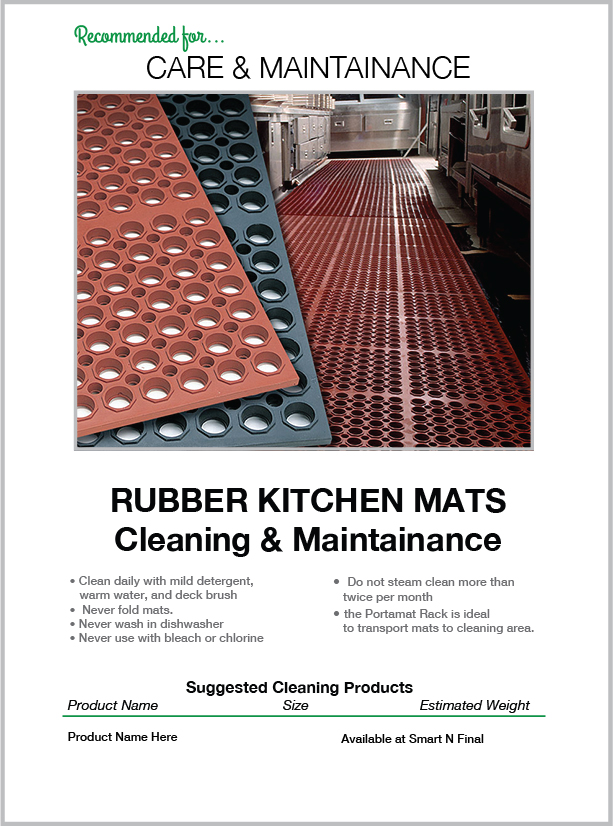
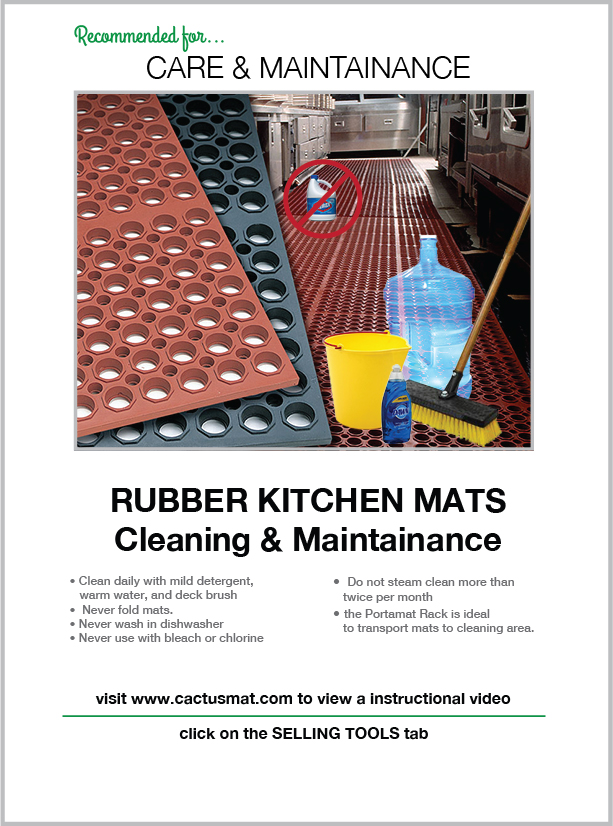
still more changes

Changed region(s): [[0.5269, 0.2421, 0.8679, 0.5448], [0.124, 0.8172, 0.8679, 0.908], [0.4649, 0.1816, 0.5889, 0.3027]]

diff --git a/rubber.html b/rubber.html
@@ -25,31 +25,58 @@
 			  	<div class="span4"></div>
 	  		</div>
 	  		<div class="row">
-	  			<a href="entrance.html"><h1 class="center-block floor_mat_guide_text">RUBBER MATS / CARE & MAINTAINANCE</h1></a>
+	  			<a href="entrance.html"><h1 class="center-block floor_mat_guide_text">KITCHEN MATS<br>CARE &amp; MAINTAINANCE</h1></a>
 			</div>
 
+
 <!-- BEST BEST BEST BEST BEST BEST BEST BEST BEST BEST BEST BEST BEST -->
-	  		<div class="row">
+			<div class="row">
+				<p id="selector_rubber_mats" class="rubber-mats">Clean daily with mild detergent,<br>
+					warm water, &amp; deck brush.<br>
+					Never fold mats, or wash in dishwasher.<br>
+					Never use bleach or chlorine. Do not steam clean more<br>
+					than twice per month.<br>
+					The Portamat Rack is ideal for<br>
+					transporting mats to cleaning areas</p>
+			</div>
+
+		<div class="row">
 				<ul class="best_container select_entrance">
-					<h1 class="good sub_title">BEST</h1>
-							<div>
-			<ul id="selector_rubber_mats">
-					<li>Clean daily with<br>mild detergent,<br>
-					warm water, &amp; deck brush.<br><br>
-					Never fold mats.<br>
-					Never wash in dishwasher.<br>
-					Never use bleach or chlorine.<br><br>
-					Do not steam clean more<br>
-					than twice per month.<br><br>
-					The Portamat Rack is ideal<br>
-					to transport mats<br>to cleaning areas</li>
+<!--					<h1 class="good sub_title">BEST</h1>		-->
+<div class="row">
+		  <div class="span4"></div>
+		  <div class="span4"><img class="center-block img-responsive" src="assets/art_photos/GBanner_Best_Wood_Strip.png" alt="Best Banner"/></div>
+		  <div class="span4"></div>					
+					<a href="assets/art_photos/GuidePics/Guide_Rubber.jpg" data-lightbox="Guide_Rubber.jpg" data-title="Touch &amp; Hold to COPY this image, then paste into an email &amp; send this image to your customer"><li id="needleRib" class="good">Kitchen Mat Care Instructions</li></a>
 				</ul>
-		</div>
+	  		</div>		
 				</ul>
 	  		</div>		
 		</div>
 	</div>
 	
+<!--
+<div class="row">
+	<div class="span4"></div>
+		<div class="span4"><img class="center-block img-responsive" src="assets/art_photos/GBanner_Best_Wood_Strip.png" alt="Best Banner"/></div>
+		  <div class="span4"></div>
+
+	  		<div class="row">
+				<ul class="best_container select_entrance">
+					<h1 class="good sub_title">BEST</h1>		
+				<div>
+					<p id="selector_rubber_mats" class="rubber-mats">Clean daily with mild detergent,<br>
+					warm water, &amp; deck brush.<br>
+					Never fold mats, or wash in dishwasher.<br>
+					Never use bleach or chlorine. Do not steam clean more<br>
+					than twice per month.<br>
+					The Portamat Rack is ideal for<br>
+					transporting mats to cleaning areas</p>
+				</div>
+	  		</div>		
+		</div>
+	</div>
+	-->
 	<!--Selector List Selector List Selector List Selector List Selector List-->
 
 	<div class="container">
@@ -102,7 +129,7 @@
 		<div class="span4"></div>
 		<div class="span4"><img class="center-block img-responsive" src="assets/art_photos/cactus.png" alt="Welcome Image"/>
 	</div>
-	
+
 	<div class="row">
 		<header class="co_name"><a href="index.html">CACTUS MAT</a></header>
 		<h2>Manufacturing Company</h2>

diff --git a/carpet.html b/carpet.html
@@ -13,43 +13,42 @@
 	</head>
 
 		<body>
-		<div class="container">
+	<div class="container">
 		<div class="row">
 			<header>CACTUS MAT</header>
 			<h2>Manufacturing Company</h2>
 		</div>
 
-			<div class="row">
-			  	<div class="span4"></div>
-				  	<div class="span4"><h1 class="center-block floor_mat_guide_text_selection">Floor Mat Selection Guide</h1>
-			  	<div class="span4"></div>
-	  		</div>
-	  	<div class="row">
+		<div class="row">
+			<div class="span4"></div>
+				<div class="span4"><h6 class="center-block floor_mat_guide_text_selection">Floor Mat Selection Guide</h6>
+			  		<div class="span4"></div>
+	  			</div>
+	  				<div class="row">
 	  			<h1 class="center-block floor_mat_guide_text">CARPET MATS / CARE & MAINTAINANCE</h1>
-			</div>
+					</div>
 			
-	  		</div>
+	  			</div>
 
 <!-- BEST BEST BEST BEST BEST BEST BEST BEST BEST BEST BEST BEST BEST -->
-		<!--<div>
-			<ul id="selector_carpet_mats" class="carpet-mats">
-				<li>Vacuum daily.<br>
-				Periodically deep clean<br>
-				with carpet extractor<br>
-				using water based detergent<br>
-				or shampoo, &amp; deck brush.<br><br>
+
+			<div class="row">
+				<p id="selector_carpet_mats" class="carpet-mats">Vacuum daily. Periodically deep clean<br>
+				with carpet extractor using water based detergent<br>
+				or shampoo, &amp; deck brush.<br>
 				Do not use solvent based cleaners<br>
-				Allow mats to dry completely<br>
-				before returning to service.<br><br>
-				Roll mat with pile facing<br>
-				outward to store and never<br>
-				stand rolled mats on end.</li>
-			</ul>
-		</div>-->
+				Always allow mats to dry completely before returning to service.<br>
+				Roll mat with pile facing outward to store and never<br>
+				stand rolled mats on end.</p>
+			</div>
+
 		<div class="row">
 				<ul class="best_container select_entrance">
-					<h1 class="good sub_title">BEST</h1>
-					
+<!--					<h1 class="good sub_title">BEST</h1>		-->
+<div class="row">
+		  <div class="span4"></div>
+		  <div class="span4"><img class="center-block img-responsive" src="assets/art_photos/GBanner_Best_Wood_Strip.png" alt="Best Banner"/></div>
+		  <div class="span4"></div>					
 					<a href="assets/art_photos/GuidePics/Guide_Carpet.jpg" data-lightbox="Guide_Carpet.jpg" data-title="Touch &amp; Hold to COPY this image, then paste into an email &amp; send this image to your customer"><li id="needleRib" class="good">Carpet Mat Care Instructions</li></a>
 				</ul>
 	  		</div>		

diff --git a/beverage.html b/beverage.html
@@ -38,7 +38,7 @@
 				<ul class="good_container select_entrance">
 <!--					<h1 class="good sub_title">GOOD</h1>		-->
 
-					<a href="assets/art_photos/GuidePics/Guide_Bubble_Eze_Entrance.jpg" data-lightbox="Guide_Bubble_Eze_Entrance.jpg" data-title="Touch &amp; Hold to COPY this image, then paste into an email &amp; send this image to your customer"><li id="bubbleEze" class="good">2502 Bubble-Eze</li></a>
+					<a href="assets/art_photos/GuidePics/Guide_Bubble_Eze_Beverage.jpg" data-lightbox="Guide_Bubble_Eze_Beverage.jpg" data-title="Touch &amp; Hold to COPY this image, then paste into an email &amp; send this image to your customer"><li id="bubbleEze" class="good">2502 Bubble-Eze</li></a>
 				</ul>
 	  		</div>
 <!-- BETTER BETTER BETTER BETTER BETTER BETTER BETTER BETTER BETTER-->
@@ -51,7 +51,7 @@
 				<ul class="better_container select_entrance">
 <!--					<h1 class="good sub_title">BETTER</h1>		-->
 
-					<a href="assets/art_photos/GuidePics/Guide_Ridge_Scraper_Entrance.jpg" data-lightbox="Guide_Ridge_Scraper_Entrance.jpg" data-title="Touch &amp; Hold to COPY this image, then paste into an email &amp; send this image to your customer"><li id="RidgeScraper" class="good">1625 Ridge Scraper / Logo</li></a>
+					<a href="assets/art_photos/GuidePics/Guide_Ridge_Scraper_Beverage.jpg" data-lightbox="Guide_Ridge_Scraper_Beverage.jpg" data-title="Touch &amp; Hold to COPY this image, then paste into an email &amp; send this image to your customer"><li id="RidgeScraper" class="good">1625 Ridge Scraper / Logo</li></a>
 				</ul>
 	  		</div>
 
@@ -65,7 +65,7 @@
 				<ul class="best_container select_entrance">
 <!--					<h1 class="good sub_title">BEST</h1>		-->
 
-					<a href="assets/art_photos/GuidePics/Guide_Fingertop_Cashier.jpg" data-lightbox="Guide_Fingertop_Cashier.jpg" data-title="Touch &amp; Hold to COPY this image, then paste into an email &amp; send this image to your customer"><li id="fingertop" class="good">35 Fingertop</li></a>
+					<a href="assets/art_photos/GuidePics/Guide_Fingertop_Beverage.jpg" data-lightbox="Guide_Fingertop_Beverage.jpg" data-title="Touch &amp; Hold to COPY this image, then paste into an email &amp; send this image to your customer"><li id="fingertop" class="good">35 Fingertop</li></a>
 				</ul>
 	  		</div>		
 		</div>

diff --git a/restrooms.html b/restrooms.html
@@ -54,7 +54,7 @@
 
 					<a href="assets/art_photos/GuidePics/Guide_Fingertop_Restroom.jpg" data-lightbox="Guide_Fingertop_Restroom.jpg" data-title="Touch &amp; Hold to COPY this image, then paste into an email &amp; send this image to your customer"><li id="fingertop" class="good">35 Fingertop</li></a>
 
-					<a href="assets/art_photos/GuidePics/Guide_Ridge_Scraper.jpg" data-lightbox="Guide_Ridge_Scraper.jpg" data-title="Touch &amp; Hold to COPY this image, then paste into an email &amp; send this image to your customer"><li id="ridgeScraper" class="good">1625 Ridge Scraper</li></a>
+					<a href="assets/art_photos/GuidePics/Guide_Ridge_Scraper_Restroom.jpg" data-lightbox="Guide_Ridge_Scraper_Restroom.jpg" data-title="Touch &amp; Hold to COPY this image, then paste into an email &amp; send this image to your customer"><li id="ridgeScraper" class="good">1625 Ridge Scraper</li></a>
 				</ul>
 	  		</div>
 
@@ -86,7 +86,7 @@
 -->
 		<div class="row">
 		  	<div class="span4"></div>
-		  	<div class="span4"><h1 class="center-block floor_mat_guide_text">Floor Mat Selection Guide</h1></div>
+		  	<div class="span4"><h2 class="center-block floor_mat_guide_text">Floor Mat Selection Guide</h2></div>
 		  	<div class="span4"></div>
   		</div>
   		  		<div class="row">
@@ -112,7 +112,7 @@
 		  	
   		</div>
   		<div class="row">
-		  	<a href="salad.html"><div class="menu_box">Salad, Beverage &amp; Ice Stations</div></a>
+		  	<a href="salad.html"><div class="menu_box">Salad Bar</div></a>
 		  	<a href="rubber.html"><div class="menu_box">Care of Rubber Mats</div></a>
   		</div>
   		<div class="row">

diff --git a/cookline.html b/cookline.html
@@ -41,9 +41,9 @@
 
 					<a href="assets/art_photos/GuidePics/Guide_Tuffdek_Red_Cookline.jpg" data-lightbox="Guide_Tuffdek_Red_Cookline.jpg" data-title="Touch &amp; Hold to COPY this image, then paste into an email &amp; send this image to your customer"><li id="tuffdekRed" class="good">3525 Tuffdek (mod grease)</li></a>
 
-					<a href="assets/art_photos/GuidePics/Guide_TopdekSr_Red_Prep.jpg" data-lightbox="Guide_TopdekSr_Red_Prep.jpg" data-title="Touch &amp; Hold to COPY this image, then paste into an email &ammp; send this image to your customer"><li id="topdekSrRed" class="good">2522 Topdek SR (lt grease)</li></a>
+					<a href="assets/art_photos/GuidePics/Guide_TopdekSr_Red_Cookline.jpg" data-lightbox="Guide_TopdekSr_Red_Cookline.jpg" data-title="Touch &amp; Hold to COPY this image, then paste into an email &ammp; send this image to your customer"><li id="topdekSrRed" class="good">2522 Topdek SR (lt grease)</li></a>
 
-					<a href="assets/art_photos/GuidePics/Guide_TopdekJr_Red_Prep.jpg" data-lightbox="Guide_TopdekJr_Red_Prep.jpg" data-title="Touch &amp; Hold to COPY this image, then paste into an email &ammp; send this image to your customer"><li id="topdekJrRed" class="good">VIP Topdek JR (lt grease)</li></a>
+					<a href="assets/art_photos/GuidePics/Guide_TopdekJr_Red_Cookline.jpg" data-lightbox="Guide_TopdekJr_Red_Cookline.jpg" data-title="Touch &amp; Hold to COPY this image, then paste into an email &ammp; send this image to your customer"><li id="topdekJrRed" class="good">VIP Topdek JR (lt grease)</li></a>
 				</ul>
 	  		</div>
 

diff --git a/prep.html b/prep.html
@@ -76,7 +76,7 @@
 
 					<a href="assets/art_photos/GuidePics/Guide_Deluxe_Red_Prep.jpg" data-lightbox="Guide_Deluxe_Red_Prep.jpg" data-title="Touch &amp; Hold to COPY this image, then paste into an email &amp; send this image to your customer"><li id="deluxeRed" class="good">2520 Deluxe - Red</li></a>
 
-					<a href="assets/art_photos/GuidePics/Guide_Cloud_RedandBlk.jpg" data-lightbox="Guide_Cloud_RedandBlk.jpg" data-title="Touch &amp; Hold to COPY this image, then paste into an email &amp; send this image to your customer"><li id="cloudRed" class="good">5000 Red &amp; 2200 Black Cloud</li></a>
+					<a href="assets/art_photos/GuidePics/Guide_Cloud_RedandBlk_Prep.jpg" data-lightbox="Guide_Cloud_RedandBlk_Prep.jpg" data-title="Touch &amp; Hold to COPY this image, then paste into an email &amp; send this image to your customer"><li id="cloudRed" class="good">5000 Red &amp; 2200 Black Cloud</li></a>
 
 				</ul>
 	  		</div>		
